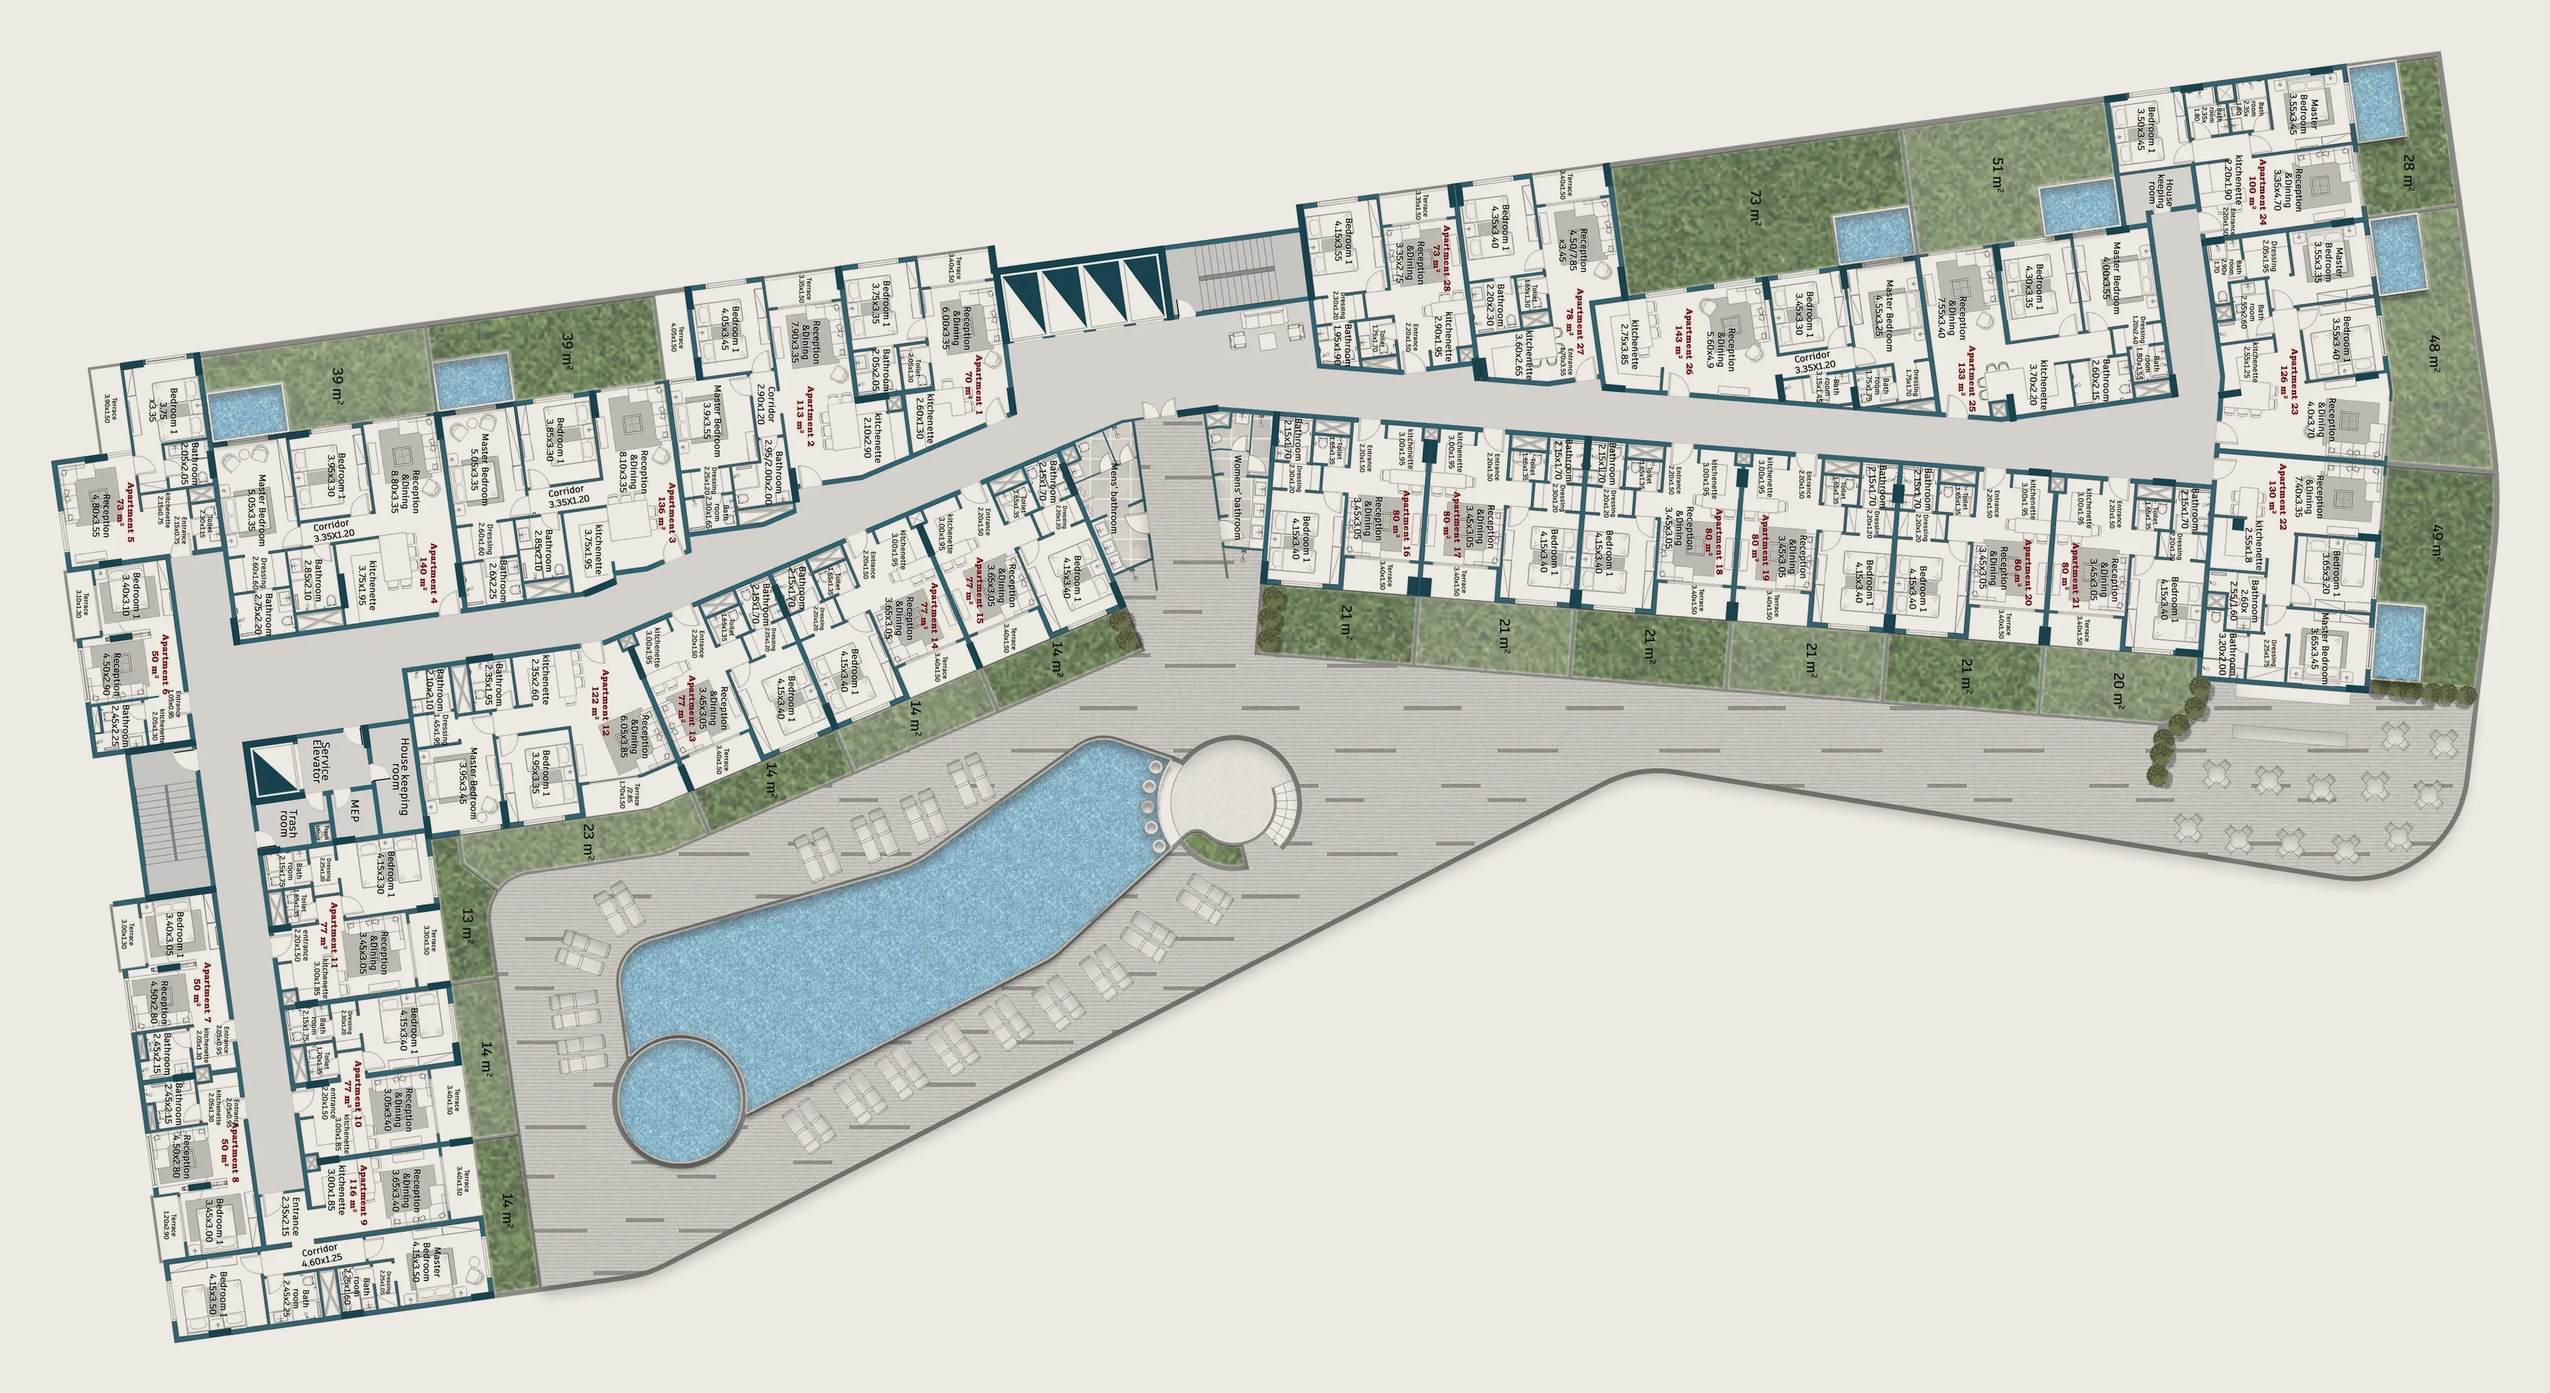
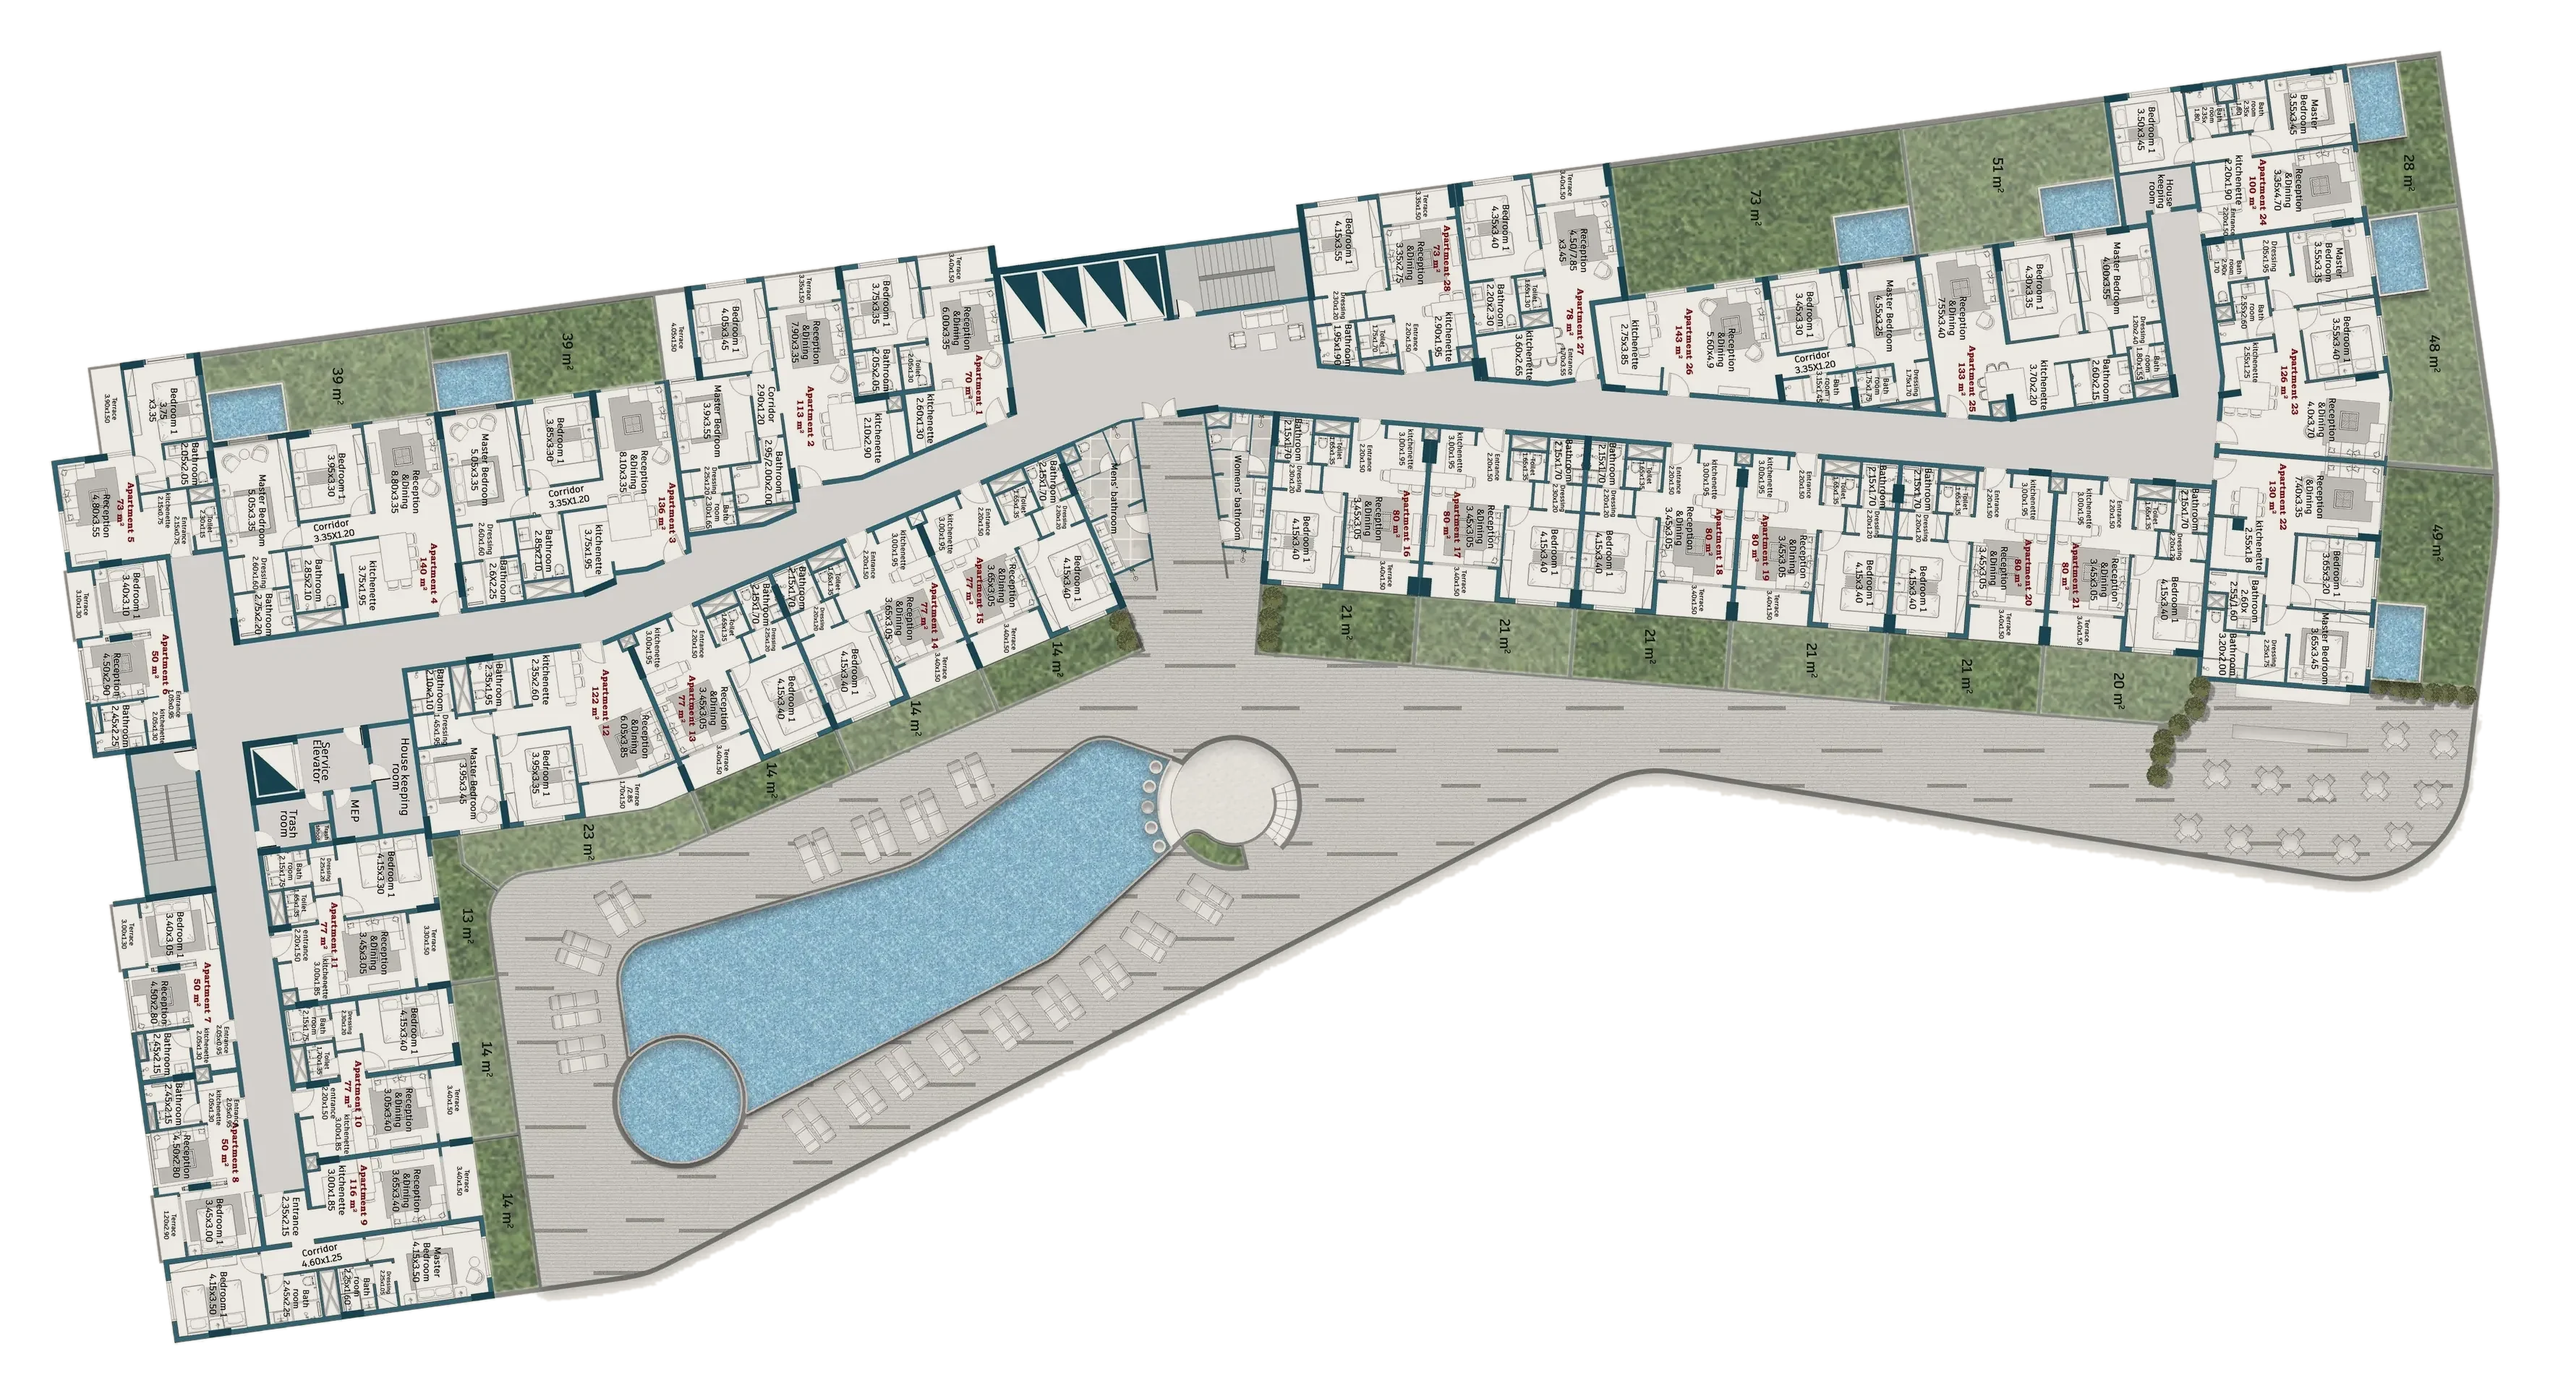
Show the area map behind the floor plans
A still map of the neighbourhood (coast, marinas, Coastal Road) drawn
locally from OpenStreetMap data and stored in assets/map — no Google, no
live map service. It's lined up so the building's real location sits under
the floor plan, follows the plan when swiped on phones, and fades in only
on the floor/apartment pages. Plan images now have a transparent
background outside the building so the map shows around them.

diff --git a/js/views/mapBackground.js b/js/views/mapBackground.js
@@ -1,0 +1,58 @@
+import gsap from 'gsap';
+import { areaMap } from '../data/project.js';
+import { h, isMobile } from '../lib/dom.js';
+
+/**
+ * AREA MAP — a still map of the neighbourhood behind the floor plans.
+ * The image is part of the site (assets/map), drawn from OpenStreetMap data.
+ * It's positioned so the building's real location sits under the plan, and
+ * follows the plan when it's scrolled sideways on phones.
+ */
+export function createMapBackground(store, plan) {
+  const img = h('img', { className: 'map-bg__img', src: isMobile.matches ? areaMap.imageSmall : areaMap.image, alt: '', decoding: 'async', draggable: 'false' });
+  const labels = areaMap.labels.map((l) =>
+    h('span', { className: `map-bg__label map-bg__label--${l.kind}`, style: `left:${l.x}%;top:${l.y}%;--r:${l.rotate ?? 0}deg` }, l.text),
+  );
+  const layer = h('div', { className: 'map-bg__layer' }, img, ...labels);
+  const root = h('div', { className: 'map-bg', 'aria-hidden': 'true' }, layer, h('p', { className: 'map-bg__credit' }, areaMap.credit));
+
+  const svg = plan.element.querySelector('svg.plan');
+  const scroller = plan.element.querySelector('.plan-scroller');
+
+  /** Scale + move the map so the site point is under the centre of the plan drawing. */
+  function place() {
+    const view = root.getBoundingClientRect();
+    const r = svg.getBoundingClientRect();
+    if (!r.width || !view.width) return;
+    const { width: W, height: H } = areaMap;
+    const [sx, sy] = areaMap.site.map((v) => v / 100);
+    const cx = r.left + r.width / 2 - view.left;
+    const cy = r.top + r.height / 2 - view.top;
+    // zoom: the plan covers `planShare` of the map width (uses the drawn plan size, not the scroller)
+    const planW = Math.min(r.width, (r.height * plan.contentAspect()) || r.width);
+    let s = planW / (W * areaMap.planShare);
+    // …but the map must always cover the whole page around that point
+    s = Math.max(s, cx / (sx * W), (view.width - cx) / ((1 - sx) * W), cy / (sy * H), (view.height - cy) / ((1 - sy) * H));
+    layer.style.width = `${W * s}px`;
+    layer.style.height = `${H * s}px`;
+    layer.style.transform = `translate3d(${Math.round(cx - sx * W * s)}px, ${Math.round(cy - sy * H * s)}px, 0)`;
+  }
+
+  let frame = 0;
+  const schedule = () => {
+    cancelAnimationFrame(frame);
+    frame = requestAnimationFrame(place);
+  };
+  window.addEventListener('resize', schedule);
+  scroller.addEventListener('scroll', schedule, { passive: true });
+
+  store.subscribe((st, p) => {
+    if (st.viewMode === p.viewMode && st.selectedFloor === p.selectedFloor) return;
+    const show = st.viewMode !== 'building';
+    if (show) requestAnimationFrame(() => requestAnimationFrame(place)); // after the plan has its size
+    if (show !== (p.viewMode !== 'building')) gsap.to(root, { autoAlpha: show ? 1 : 0, duration: show ? 1.2 : 0.6, delay: show ? 0.6 : 0, ease: 'power2.out', overwrite: 'auto' });
+  });
+  gsap.set(root, { autoAlpha: 0 });
+
+  return { element: root, place };
+}

diff --git a/styles.css b/styles.css
@@ -2210,6 +2210,75 @@ a {
   color: var(--ink-3);
 }
 
+
+/* ── area map behind the floor plans ────────────────────────────────────── */
+
+.map-bg {
+  position: absolute;
+  inset: 0;
+  z-index: 0;
+  overflow: hidden;
+  pointer-events: none;
+  visibility: hidden;
+}
+
+.map-bg__layer {
+  position: absolute;
+  top: 0;
+  left: 0;
+  will-change: transform;
+}
+
+.map-bg__img {
+  display: block;
+  width: 100%;
+  height: 100%;
+  user-select: none;
+}
+
+/* soft paper wash so the plan stays the hero; stronger towards the edges */
+.map-bg::after {
+  content: '';
+  position: absolute;
+  inset: 0;
+  background: radial-gradient(ellipse 70% 70% at 45% 50%, rgba(238, 234, 227, 0) 40%, rgba(238, 234, 227, 0.55) 100%);
+}
+
+.map-bg__label {
+  position: absolute;
+  transform: translate(-50%, -50%) rotate(var(--r));
+  white-space: nowrap;
+  font-size: 10px;
+  font-weight: 500;
+  letter-spacing: 0.22em;
+  text-transform: uppercase;
+  color: rgba(74, 91, 97, 0.75);
+}
+
+.map-bg__label--sea {
+  font-size: 15px;
+  font-weight: 300;
+  font-style: italic;
+  letter-spacing: 0.32em;
+  color: rgba(29, 68, 82, 0.55);
+}
+
+.map-bg__label--road {
+  font-size: 9px;
+  color: rgba(74, 91, 97, 0.6);
+}
+
+.map-bg__credit {
+  position: absolute;
+  left: 50%;
+  bottom: 8px;
+  transform: translateX(-50%);
+  margin: 0;
+  font-size: 9.5px;
+  color: var(--ink-3);
+  z-index: 1;
+}
+
 /* ── mobile ──────────────────────────────────────────────────────────────── */
 
 @media (max-width: 1100px) {
@@ -2576,6 +2645,23 @@ a {
 
   .details__compare {
     padding: 12px;
+  }
+
+
+  .map-bg__credit {
+    left: auto;
+    right: 8px;
+    bottom: auto;
+    top: calc(44dvh - 20px);
+    transform: none;
+  }
+
+  .map-bg__label {
+    font-size: 8.5px;
+  }
+
+  .map-bg__label--sea {
+    font-size: 12px;
   }
 
   /* details → bottom sheet */

diff --git a/js/data/project.js b/js/data/project.js
@@ -20,6 +20,30 @@ export const project = {
 };
 
 /**
+ * Area map behind the floor plans. Drawn locally from OpenStreetMap data
+ * (tools/render-map.py) — no Google, no live map service. `site` is where the
+ * building is on the image (percent); labels are placed in percent too.
+ * Location: Azur One Eleven Hotel Alamein, 30.86971, 28.88078.
+ */
+export const areaMap = {
+  image: 'assets/map/area.webp',
+  imageSmall: 'assets/map/area-sm.webp',
+  width: 3200,
+  height: 2497,
+  site: [49.804, 49.732],
+  // share of the map width the floor plan should cover (sets the map's zoom)
+  planShare: 0.42,
+  labels: [
+    { text: 'Mediterranean Sea', x: 80, y: 16, kind: 'sea' },
+    { text: 'International Coastal Road', x: 34, y: 26.2, rotate: 32.5, kind: 'road' },
+    { text: 'Azur Beach Club', x: 75.9, y: 41.5, kind: 'place' },
+    { text: 'Vista Marina', x: 56.3, y: 64, kind: 'place' },
+    { text: 'Porto Golf Marina', x: 88.7, y: 81.5, kind: 'place' },
+  ],
+  credit: '© OpenStreetMap contributors',
+};
+
+/**
  * Building photographs. Each view has one polygon per residential floor
  * (floor 1 → 6), traced on the image in image pixels. The polygons follow the
  * slab lines, including where the facade steps back.

diff --git a/js/main.js b/js/main.js
@@ -14,6 +14,7 @@ import { createTooltip } from './ui/tooltip.js';
 import { createTopBar } from './ui/topbar.js';
 import { createViewSwitch } from './ui/viewSwitch.js';
 import { createBuildingView } from './views/buildingView.js';
+import { createMapBackground } from './views/mapBackground.js';
 import { createPlanView } from './views/planView.js';
 
 /**
@@ -32,7 +33,8 @@ async function main() {
   const building = createBuildingView(store);
   const plan = createPlanView(store);
   const floorTitle = createFloorTitle();
-  app.append(building.element, plan.element, floorTitle.element);
+  const areaMap = createMapBackground(store, plan);
+  app.append(areaMap.element, building.element, plan.element, floorTitle.element);
 
   // UI layer
   const ui = h('div', { className: 'ui' });

diff --git a/js/views/planView.js b/js/views/planView.js
@@ -165,6 +165,8 @@ export function createPlanView(store) {
     viewBox: vb,
     applyViewBox,
     contentBox: () => contentBox(plans[planId]),
+    /** Width / height of the current plan drawing (for lining up the area map). */
+    contentAspect: () => (planId ? plans[planId].content[2] / plans[planId].content[3] : 0),
     unitBox,
     polygonRect(id) {
       return polygons.get(id)?.getBoundingClientRect() ?? null;

diff --git a/tools/render-map.py b/tools/render-map.py
@@ -1,0 +1,84 @@
+# Renders assets/map/area.png from OpenStreetMap data (data.json from the Overpass API, bbox below).
+# Map data (c) OpenStreetMap contributors, ODbL. Then convert to area.webp / area-sm.webp.
+import json, math
+from PIL import Image, ImageDraw, ImageFilter
+S, N, W, E = 30.832, 30.907, 28.825, 28.937
+SITE = (30.8697081, 28.8807809)
+OUT_W = 3200
+SS = 2  # supersample
+def merc(lat, lon):
+    x = (lon + 180) / 360
+    y = (1 - math.log(math.tan(math.radians(lat)) + 1 / math.cos(math.radians(lat))) / math.pi) / 2
+    return x, y
+x0, y0 = merc(N, W); x1, y1 = merc(S, E)
+OUT_H = round(OUT_W * (y1 - y0) / (x1 - x0))
+w, h = OUT_W * SS, OUT_H * SS
+def px(lat, lon):
+    x, y = merc(lat, lon)
+    return ((x - x0) / (x1 - x0) * w, (y - y0) / (y1 - y0) * h)
+d = json.load(open('data.json'))['elements']
+C = {
+  'land': (238, 234, 227), 'sea': (205, 218, 217), 'water': (196, 212, 212), 'sand': (232, 223, 204),
+  'green': (221, 226, 210), 'pool': (190, 210, 212), 'building': (226, 221, 211), 'bline': (212, 205, 193),
+  'casing': (214, 206, 192), 'major': (255, 255, 255), 'minor': (250, 248, 244), 'foot': (226, 220, 210), 'constr': (230, 225, 216),
+}
+img = Image.new('RGB', (w, h), C['land'])
+dr = ImageDraw.Draw(img)
+def pts(e): return [px(p['lat'], p['lon']) for p in e.get('geometry', []) if p]
+# sea: merge coastline ways into one polyline, close it along the north (sea) edge
+coast = [e for e in d if e.get('tags', {}).get('natural') == 'coastline']
+segs = [[(p['lat'], p['lon']) for p in e['geometry']] for e in coast]
+line = segs.pop(0)
+while segs:
+    for i, s in enumerate(segs):
+        if s[0] == line[-1]: line += s[1:]; segs.pop(i); break
+        if s[-1] == line[0]: line = s[:-1] + line; segs.pop(i); break
+    else: break
+print('coast points', len(line), 'start', line[0], 'end', line[-1])
+# OSM coastline: land on the left, sea on the right of the drawing direction.
+pl = [px(*p) for p in line]
+# close via the top edge (sea is north here); order corners by direction
+if pl[0][0] > pl[-1][0]:   # runs east -> west: sea (right side) is north
+    poly = pl + [(-50, -50), (w + 50, -50)] if False else pl + [(min(p[0] for p in pl) - 50, -50), (max(p[0] for p in pl) + 50, -50)]
+else:
+    poly = pl + [(max(p[0] for p in pl) + 50, -50), (min(p[0] for p in pl) - 50, -50)]
+dr.polygon(poly, fill=C['sea'])
+def area_fill(cond, color, outline=None, width=0):
+    for e in d:
+        t = e.get('tags', {})
+        if e['type'] != 'way' or not cond(t): continue
+        p = pts(e)
+        if len(p) > 2 and e['geometry'][0] == e['geometry'][-1]:
+            dr.polygon(p, fill=color, outline=outline, width=width)
+area_fill(lambda t: t.get('natural') in ('sand', 'beach'), C['sand'])
+area_fill(lambda t: t.get('landuse') in ('grass', 'orchard', 'farmland', 'cemetery') or t.get('leisure') in ('garden', 'park', 'golf_course', 'pitch') or t.get('natural') in ('scrub', 'grassland', 'wood'), C['green'])
+area_fill(lambda t: t.get('landuse') == 'construction', C['constr'])
+area_fill(lambda t: t.get('natural') == 'water' or t.get('waterway'), C['water'])
+area_fill(lambda t: t.get('leisure') in ('swimming_pool', 'water_park'), C['pool'])
+area_fill(lambda t: 'building' in t, C['building'], C['bline'], SS)
+# roads, drawn minor -> major with casings
+widths = {'motorway': 9, 'trunk': 9, 'primary': 8, 'secondary': 7, 'tertiary': 5.5, 'trunk_link': 5, 'secondary_link': 4.5, 'tertiary_link': 4,
+          'residential': 3.4, 'unclassified': 3.4, 'service': 2.2, 'construction': 2.2, 'pedestrian': 2.4, 'track': 1.6}
+def roads(kinds, color, casing=False, extra=0):
+    for e in d:
+        hw = e.get('tags', {}).get('highway')
+        if hw not in kinds: continue
+        p = pts(e)
+        if len(p) < 2: continue
+        wd = (widths.get(hw, 1.2) + extra) * SS
+        dr.line(p, fill=color, width=max(1, round(wd)), joint='curve')
+foot = {'footway', 'path', 'steps', 'cycleway', 'corridor'}
+roads(foot, C['foot'])
+minor = {'residential', 'unclassified', 'service', 'construction', 'pedestrian', 'track'}
+major = {'motorway', 'trunk', 'primary', 'secondary', 'tertiary', 'trunk_link', 'secondary_link', 'tertiary_link'}
+roads(minor, C['casing'], extra=1.6); roads(minor, C['minor'])
+roads(major, C['casing'], extra=2.4); roads(major, C['major'])
+out = img.resize((OUT_W, OUT_H), Image.LANCZOS)
+out.save('map.png')
+sx, sy = px(*SITE)
+print('size', OUT_W, OUT_H, 'site %', round(sx / w * 100, 3), round(sy / h * 100, 3))
+# label anchors (percent) for HTML overlay
+for e in d:
+    t = e.get('tags', {})
+    if t.get('place') and e['type'] == 'node':
+        x, y = px(e['lat'], e['lon']); print('place', t.get('name:en') or t.get('name'), round(x / w * 100, 1), round(y / h * 100, 1))
